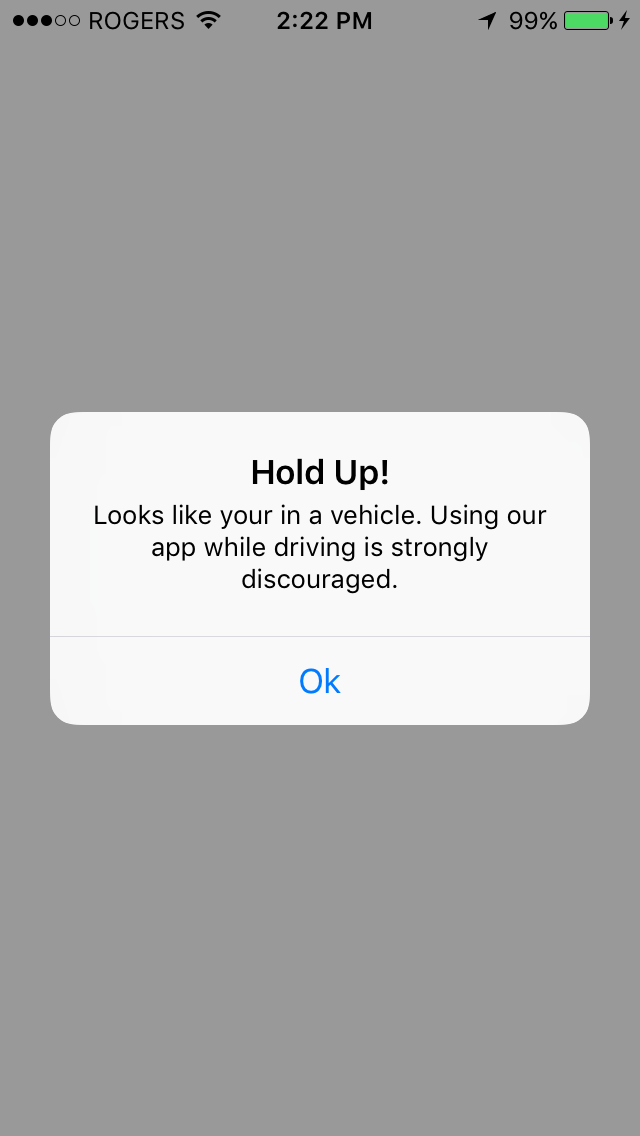
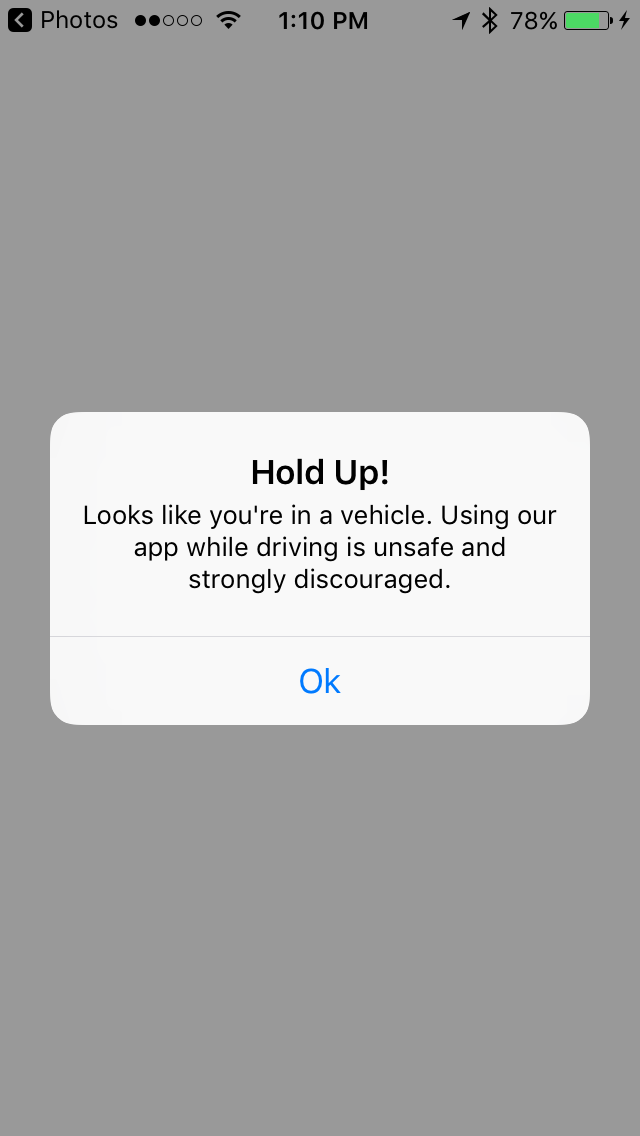
version 0.0.3

diff --git a/DriveGuard/DriveGuard.swift b/DriveGuard/DriveGuard.swift
@@ -98,9 +98,9 @@ public class DriveGuard {
             
             coreMotion.startActivityUpdates(to: .main) { (activity) in
                 
-                if (activity?.automotive)! {
+                if (activity?.stationary)! {
                     
-                    let alert = UIAlertController(title: "Hold Up!", message: "Looks like your in a vehicle. Using our app while driving is prohibited.", preferredStyle: UIAlertControllerStyle.alert)
+                    let alert = UIAlertController(title: "Hold Up!", message: "Looks like you're in a vehicle. Using our app while driving is prohibited.", preferredStyle: UIAlertControllerStyle.alert)
                     
                     let action1 = UIAlertAction(title: "Close", style: .default, handler: { (action) in
                         
@@ -138,9 +138,9 @@ public class DriveGuard {
             
             coreMotion.startActivityUpdates(to: .main) { (activity) in
                 
-                if (activity?.automotive)! {
+                if (activity?.stationary)! {
                     
-                    let alert = UIAlertController(title: "Hold Up!", message: "Looks like your in a vehicle. Using our app while driving is strongly discouraged.", preferredStyle: UIAlertControllerStyle.alert)
+                    let alert = UIAlertController(title: "Hold Up!", message: "Looks like you're in a vehicle. Using our app while driving is unsafe and strongly discouraged.", preferredStyle: UIAlertControllerStyle.alert)
                     alert.addAction(UIAlertAction(title: "Ok", style: UIAlertActionStyle.default, handler: nil))
                     viewController.present(alert, animated: true, completion: nil)
                     
